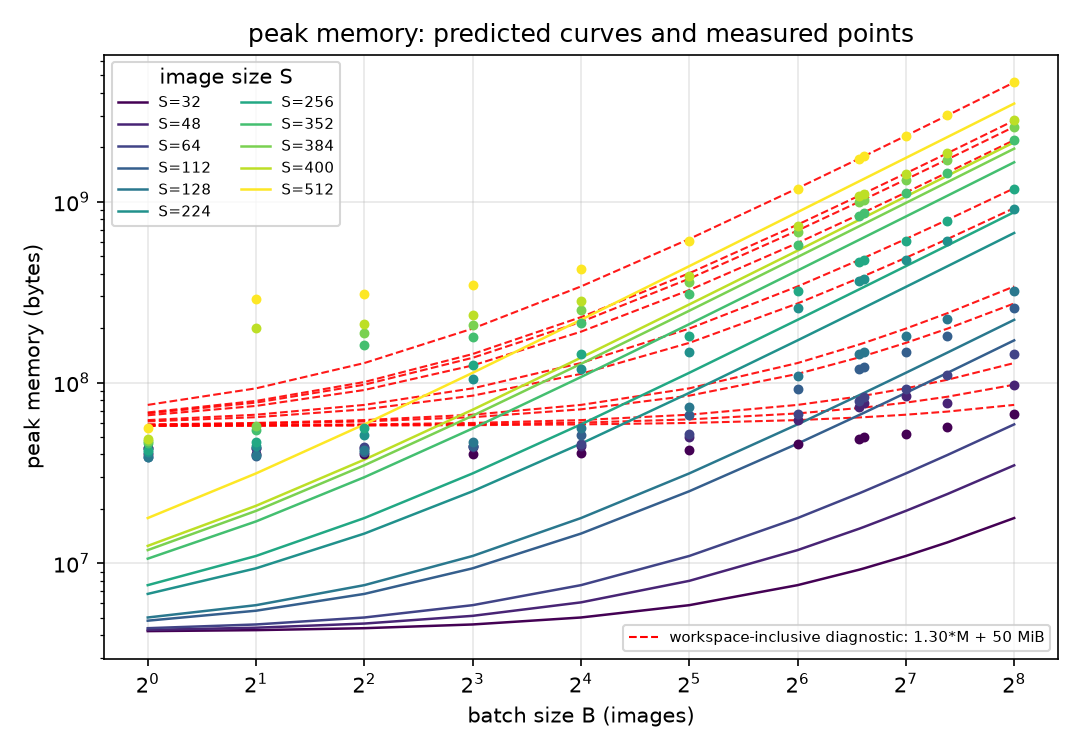
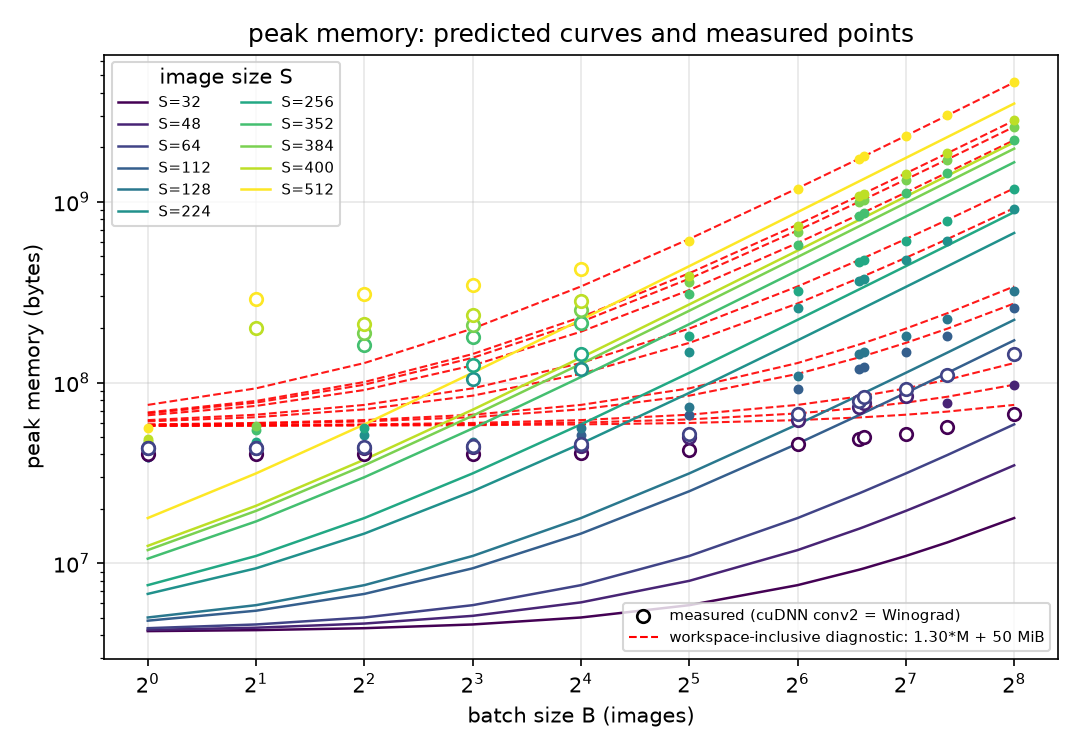
modified README.md

diff --git a/hw1/calibrate.py b/hw1/calibrate.py
@@ -58,6 +58,17 @@ def load_rows(path: Path):
     return rows
 
 
+def load_winograd_points(path: Path):
+    if not path.exists():
+        return set()
+    points = set()
+    with path.open(newline="", encoding="utf-8") as handle:
+        for raw in csv.DictReader(handle):
+            if "winograd" in raw.get("kernel_name", "").lower():
+                points.add((int(raw["S"]), int(raw["B"])))
+    return points
+
+
 def split_rows(rows):
     grid_ok = [r for r in rows if not r["is_stress"] and r["status"] == "OK"]
     calibration = [r for r in grid_ok if not r["is_validation"]]
@@ -196,25 +207,30 @@ def fig_pred_vs_measured(path, rows_cal, rows_val, model, theta, name, unit, key
 
 
 def fig_curves(path, rows, model, theta, name, unit, key, log_y=True,
-               overlay_model=None, overlay_label=None):
+               overlay_model=None, overlay_label=None,
+               highlight_points=None, highlight_label=None):
+    highlight_points = highlight_points or set()
     s_values = sorted({r["S"] for r in rows})
     b_values = np.array(sorted({r["B"] for r in rows}), dtype=np.float64)
     cmap = plt.get_cmap("viridis")
     fig, ax = plt.subplots(figsize=(7.2, 5.0))
     for index, s_value in enumerate(s_values):
         color = cmap(index / max(1, len(s_values) - 1))
-        batch_points = np.array(
-            [r["B"] for r in rows if r["S"] == s_value], dtype=np.float64
-        )
-        measured_points = np.array(
-            [r[key] for r in rows if r["S"] == s_value], dtype=np.float64
-        )
+        s_rows = [r for r in rows if r["S"] == s_value]
+        plain = [r for r in s_rows if (r["S"], r["B"]) not in highlight_points]
+        high = [r for r in s_rows if (r["S"], r["B"]) in highlight_points]
         predicted_curve = np.asarray(
             model(np.full_like(b_values, s_value), b_values, theta)
         )
         ax.plot(b_values, predicted_curve, "-", color=color, linewidth=1.2,
                 label=f"S={s_value}")
-        ax.scatter(batch_points, measured_points, s=14, color=color, zorder=3)
+        if plain:
+            ax.scatter([r["B"] for r in plain], [float(r[key]) for r in plain],
+                       s=14, color=color, zorder=3)
+        if high:
+            ax.scatter([r["B"] for r in high], [float(r[key]) for r in high],
+                       s=36, facecolors="white", edgecolors=color,
+                       linewidths=1.3, zorder=4)
         if overlay_model is not None:
             overlay_curve = np.asarray(
                 overlay_model(np.full_like(b_values, s_value), b_values)
@@ -227,11 +243,16 @@ def fig_curves(path, rows, model, theta, name, unit, key, log_y=True,
     style_axes(ax, f"{name}: predicted curves and measured points",
                "batch size B (images)", f"{name} ({unit})")
     legend = ax.legend(title="image size S", fontsize=7, ncol=2, loc="upper left")
+    extra_handles, extra_labels = [], []
+    if highlight_points:
+        extra_handles.append(ax.scatter([], [], s=36, facecolors="white",
+                                        edgecolors="black", linewidths=1.3))
+        extra_labels.append(highlight_label or "measured (highlighted)")
     if overlay_model is not None:
-        ax.plot([], [], "--", color="red", linewidth=1.0,
-                label=overlay_label or "workspace-inclusive diagnostic")
-        handles, labels = ax.get_legend_handles_labels()
-        ax.legend(handles[-1:], labels[-1:], fontsize=7, loc="lower right")
+        extra_handles.append(ax.plot([], [], "--", color="red", linewidth=1.0)[0])
+        extra_labels.append(overlay_label or "workspace-inclusive diagnostic")
+    if extra_handles:
+        ax.legend(extra_handles, extra_labels, fontsize=7, loc="lower right")
         ax.add_artist(legend)
     fig.tight_layout()
     fig.savefig(path, dpi=150)
@@ -632,6 +653,8 @@ def main() -> int:
             f"workspace-inclusive diagnostic: "
             f"{workspace['a_scale']:.2f}*M + {workspace['b_bytes'] / 2**20:.0f} MiB"
         ),
+        highlight_points=load_winograd_points(results_dir / "kernels.csv"),
+        highlight_label="measured (cuDNN conv2 = Winograd)",
     )
     fig_error_heatmap(
         figures_dir / "latency_error_heatmap.png",
